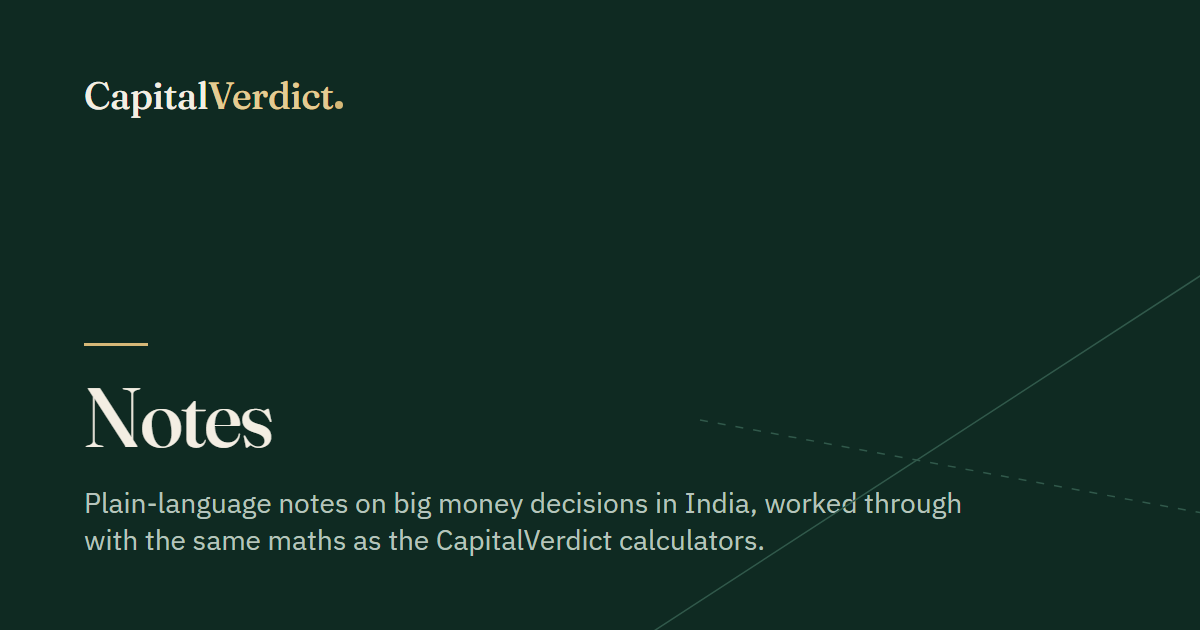
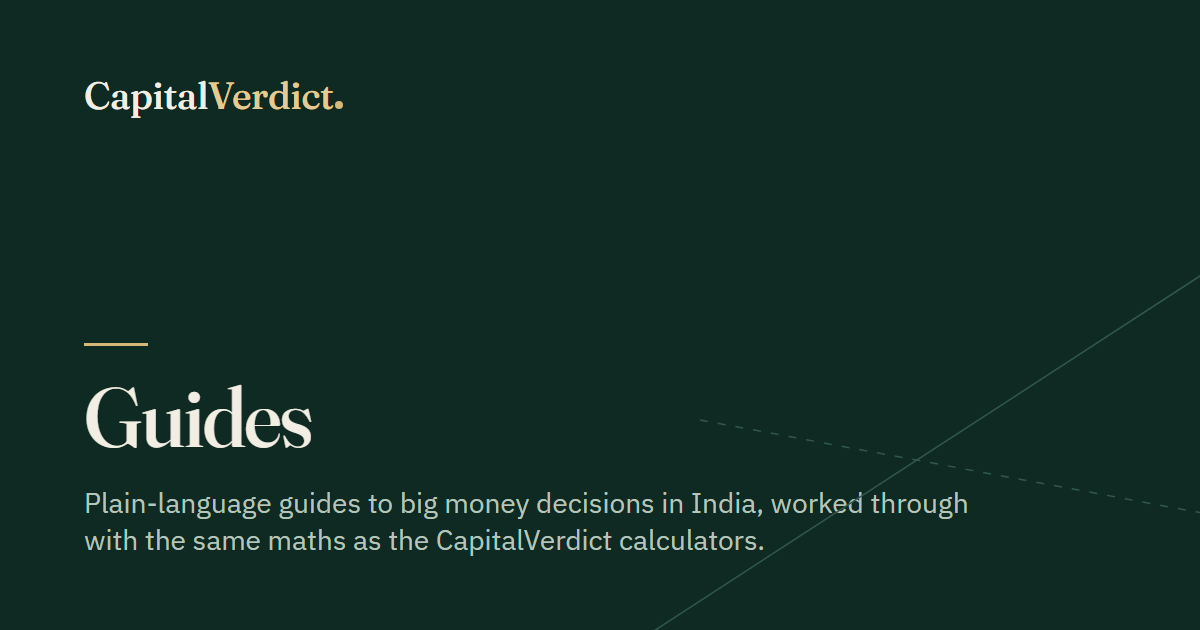
Rename Notes to Guides, at /guides/
Nav, footer, home section, page title, intro and feed say Guides; the
group Money ideas becomes Money basics. Pages, feed and links move from
/blog/ to /guides/ (not yet launched, so nothing to redirect).

Changed region(s): [[0.0617, 0.6032, 0.2775, 0.7238], [0.2158, 0.7841, 0.8017, 0.8444]]

diff --git a/src/pages/guides/rss.xml.ts b/src/pages/guides/rss.xml.ts
@@ -14,8 +14,8 @@ export const GET: APIRoute = async ({ site }) => {
     .map(
       (p) => `    <item>
       <title>${escape(p.data.title)}</title>
-      <link>${link(`/blog/${p.id}/`)}</link>
-      <guid>${link(`/blog/${p.id}/`)}</guid>
+      <link>${link(`/guides/${p.id}/`)}</link>
+      <guid>${link(`/guides/${p.id}/`)}</guid>
       <description>${escape(p.data.description)}</description>
       <pubDate>${p.data.date.toUTCString()}</pubDate>
     </item>`,
@@ -25,7 +25,7 @@ export const GET: APIRoute = async ({ site }) => {
 <rss version="2.0">
   <channel>
     <title>${escape(`${t('en', 'blog.title')}: ${t('en', 'site.name')}`)}</title>
-    <link>${link('/blog/')}</link>
+    <link>${link('/guides/')}</link>
     <description>${escape(t('en', 'blog.description'))}</description>
     <language>en-in</language>
 ${items}

diff --git a/COPY_REVIEW.md b/COPY_REVIEW.md
@@ -95,8 +95,9 @@ Example values the tools now open with. They are labelled "Example" on the page 
 
 ## Home page sentence card (drafted 2026-10-20)
 
-| Key                                                                                | Where it shows                                                  |
-| ---------------------------------------------------------------------------------- | --------------------------------------------------------------- |
-| [ ] `hero.tab.*`, `hero.tablist`, `hero.ask.*`, `hero.answer.invalid`, `hero.open` | Home hero card: tabs, blank labels, answer                      |
-| [ ] `hero.car.*`, `hero.solar.*`, `hero.home.*`                                    | The three sentences, their answers and the example-figures line |
-| [ ] `hero.rotate.pause`, `hero.rotate.play`                                        | Home hero card: pause and play button for the rotating examples |
+| Key                                                                                                                                                    | Where it shows                                                  |
+| ------------------------------------------------------------------------------------------------------------------------------------------------------ | --------------------------------------------------------------- |
+| [ ] `hero.tab.*`, `hero.tablist`, `hero.ask.*`, `hero.answer.invalid`, `hero.open`                                                                     | Home hero card: tabs, blank labels, answer                      |
+| [ ] `hero.car.*`, `hero.solar.*`, `hero.home.*`                                                                                                        | The three sentences, their answers and the example-figures line |
+| [ ] `hero.rotate.pause`, `hero.rotate.play`                                                                                                            | Home hero card: pause and play button for the rotating examples |
+| [ ] `blog.title`, `blog.description`, `blog.intro`, `blog.kind.basics`, `blog.disclaimer`, `blog.more`, `nav.blog`, `footer.link.blog`, `home.notes.*` | "Notes" renamed to "Guides", "Money ideas" to "Money basics"    |

diff --git a/README.md b/README.md
@@ -49,7 +49,7 @@ them if the tagline or a tool question changes.
 - `src/engine/`: pure calculation modules (no DOM), fully unit-tested
 - `src/models/`: one file per decision tool
 - `src/data/`: JSON data with `{value, unit, source, effectiveDate}`; unverified values are marked `TODO_VERIFY`
-- `src/content/blog/`: notes; `src/content/blogNumbers.test.ts` recomputes every number they quote
+- `src/content/blog/`: guides (served at `/guides/`); `src/content/blogNumbers.test.ts` recomputes every number they quote
 - `src/i18n/`: `en.json` and `hi.json` UI strings; `TODO_COPY` / `TODO_COPY_HI` mark copy still to be written
 - `src/config/site.ts`: deployment settings read from the environment
 - `src/components/`, `src/layouts/`, `src/pages/`: UI
